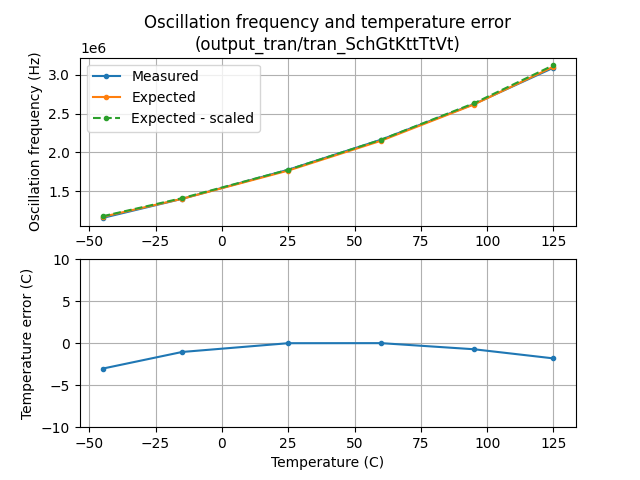
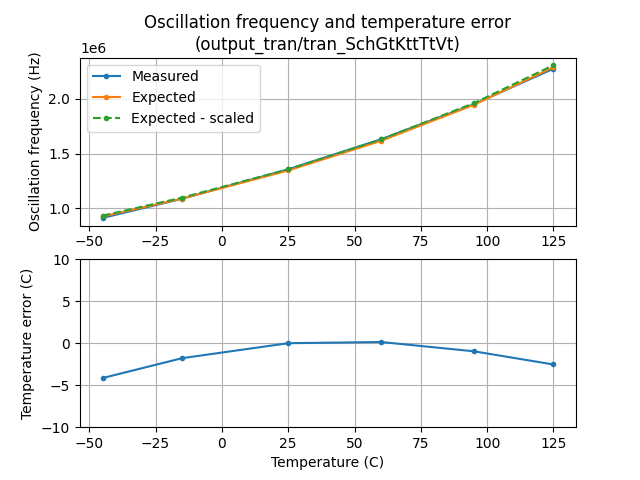
Oscillator: use custom NAND2
Same results as v2??

diff --git a/sim/LELO_GR04_OSC/results/tran_Sch_typical.html b/sim/LELO_GR04_OSC/results/tran_Sch_typical.html
@@ -61,158 +61,158 @@ table tfoot .links a{
 <body>
     <style type="text/css">
 </style>
-<table id="T_3011d">
+<table id="T_08e75">
   <thead>
     <tr>
       <th class="blank level0" >&nbsp;</th>
-      <th id="T_3011d_level0_col0" class="col_heading level0 col0" >idd_-45</th>
-      <th id="T_3011d_level0_col1" class="col_heading level0 col1" >idd_125</th>
-      <th id="T_3011d_level0_col2" class="col_heading level0 col2" >iddq_-45</th>
-      <th id="T_3011d_level0_col3" class="col_heading level0 col3" >iddq_125</th>
-      <th id="T_3011d_level0_col4" class="col_heading level0 col4" >fosc_-45</th>
-      <th id="T_3011d_level0_col5" class="col_heading level0 col5" >fosc_25</th>
-      <th id="T_3011d_level0_col6" class="col_heading level0 col6" >fosc_125</th>
-      <th id="T_3011d_level0_col7" class="col_heading level0 col7" >t_err_max</th>
-      <th id="T_3011d_level0_col8" class="col_heading level0 col8" >t_err_min</th>
+      <th id="T_08e75_level0_col0" class="col_heading level0 col0" >idd_-45</th>
+      <th id="T_08e75_level0_col1" class="col_heading level0 col1" >idd_125</th>
+      <th id="T_08e75_level0_col2" class="col_heading level0 col2" >iddq_-45</th>
+      <th id="T_08e75_level0_col3" class="col_heading level0 col3" >iddq_125</th>
+      <th id="T_08e75_level0_col4" class="col_heading level0 col4" >fosc_-45</th>
+      <th id="T_08e75_level0_col5" class="col_heading level0 col5" >fosc_25</th>
+      <th id="T_08e75_level0_col6" class="col_heading level0 col6" >fosc_125</th>
+      <th id="T_08e75_level0_col7" class="col_heading level0 col7" >t_err_max</th>
+      <th id="T_08e75_level0_col8" class="col_heading level0 col8" >t_err_min</th>
     </tr>
   </thead>
   <tbody>
     <tr>
-      <th id="T_3011d_level0_row0" class="row_heading level0 row0" >count</th>
-      <td id="T_3011d_row0_col0" class="data row0 col0" >1.000 uA</td>
-      <td id="T_3011d_row0_col1" class="data row0 col1" >1.000 uA</td>
-      <td id="T_3011d_row0_col2" class="data row0 col2" >1.000 nA</td>
-      <td id="T_3011d_row0_col3" class="data row0 col3" >1.000 nA</td>
-      <td id="T_3011d_row0_col4" class="data row0 col4" >1.000 MHz</td>
-      <td id="T_3011d_row0_col5" class="data row0 col5" >1.000 MHz</td>
-      <td id="T_3011d_row0_col6" class="data row0 col6" >1.000 MHz</td>
-      <td id="T_3011d_row0_col7" class="data row0 col7" >1.00 C</td>
-      <td id="T_3011d_row0_col8" class="data row0 col8" >1.00 C</td>
+      <th id="T_08e75_level0_row0" class="row_heading level0 row0" >count</th>
+      <td id="T_08e75_row0_col0" class="data row0 col0" >1.000 uA</td>
+      <td id="T_08e75_row0_col1" class="data row0 col1" >1.000 uA</td>
+      <td id="T_08e75_row0_col2" class="data row0 col2" >1.000 nA</td>
+      <td id="T_08e75_row0_col3" class="data row0 col3" >1.000 nA</td>
+      <td id="T_08e75_row0_col4" class="data row0 col4" >1.000 MHz</td>
+      <td id="T_08e75_row0_col5" class="data row0 col5" >1.000 MHz</td>
+      <td id="T_08e75_row0_col6" class="data row0 col6" >1.000 MHz</td>
+      <td id="T_08e75_row0_col7" class="data row0 col7" >1.00 C</td>
+      <td id="T_08e75_row0_col8" class="data row0 col8" >1.00 C</td>
     </tr>
     <tr>
-      <th id="T_3011d_level0_row1" class="row_heading level0 row1" >mean</th>
-      <td id="T_3011d_row1_col0" class="data row1 col0" >11.206 uA</td>
-      <td id="T_3011d_row1_col1" class="data row1 col1" >32.826 uA</td>
-      <td id="T_3011d_row1_col2" class="data row1 col2" >0.653 nA</td>
-      <td id="T_3011d_row1_col3" class="data row1 col3" >111.091 nA</td>
-      <td id="T_3011d_row1_col4" class="data row1 col4" >1.153 MHz</td>
-      <td id="T_3011d_row1_col5" class="data row1 col5" >1.776 MHz</td>
-      <td id="T_3011d_row1_col6" class="data row1 col6" >3.092 MHz</td>
-      <td id="T_3011d_row1_col7" class="data row1 col7" >0.01 C</td>
-      <td id="T_3011d_row1_col8" class="data row1 col8" >-3.03 C</td>
+      <th id="T_08e75_level0_row1" class="row_heading level0 row1" >mean</th>
+      <td id="T_08e75_row1_col0" class="data row1 col0" >10.082 uA</td>
+      <td id="T_08e75_row1_col1" class="data row1 col1" >29.993 uA</td>
+      <td id="T_08e75_row1_col2" class="data row1 col2" >1.629 nA</td>
+      <td id="T_08e75_row1_col3" class="data row1 col3" >8.892 nA</td>
+      <td id="T_08e75_row1_col4" class="data row1 col4" >0.913 MHz</td>
+      <td id="T_08e75_row1_col5" class="data row1 col5" >1.357 MHz</td>
+      <td id="T_08e75_row1_col6" class="data row1 col6" >2.274 MHz</td>
+      <td id="T_08e75_row1_col7" class="data row1 col7" >0.14 C</td>
+      <td id="T_08e75_row1_col8" class="data row1 col8" >-4.15 C</td>
     </tr>
     <tr>
-      <th id="T_3011d_level0_row2" class="row_heading level0 row2" >std</th>
-      <td id="T_3011d_row2_col0" class="data row2 col0" >nan uA</td>
-      <td id="T_3011d_row2_col1" class="data row2 col1" >nan uA</td>
-      <td id="T_3011d_row2_col2" class="data row2 col2" >nan nA</td>
-      <td id="T_3011d_row2_col3" class="data row2 col3" >nan nA</td>
-      <td id="T_3011d_row2_col4" class="data row2 col4" >nan MHz</td>
-      <td id="T_3011d_row2_col5" class="data row2 col5" >nan MHz</td>
-      <td id="T_3011d_row2_col6" class="data row2 col6" >nan MHz</td>
-      <td id="T_3011d_row2_col7" class="data row2 col7" >nan C</td>
-      <td id="T_3011d_row2_col8" class="data row2 col8" >nan C</td>
+      <th id="T_08e75_level0_row2" class="row_heading level0 row2" >std</th>
+      <td id="T_08e75_row2_col0" class="data row2 col0" >nan uA</td>
+      <td id="T_08e75_row2_col1" class="data row2 col1" >nan uA</td>
+      <td id="T_08e75_row2_col2" class="data row2 col2" >nan nA</td>
+      <td id="T_08e75_row2_col3" class="data row2 col3" >nan nA</td>
+      <td id="T_08e75_row2_col4" class="data row2 col4" >nan MHz</td>
+      <td id="T_08e75_row2_col5" class="data row2 col5" >nan MHz</td>
+      <td id="T_08e75_row2_col6" class="data row2 col6" >nan MHz</td>
+      <td id="T_08e75_row2_col7" class="data row2 col7" >nan C</td>
+      <td id="T_08e75_row2_col8" class="data row2 col8" >nan C</td>
     </tr>
     <tr>
-      <th id="T_3011d_level0_row3" class="row_heading level0 row3" >min</th>
-      <td id="T_3011d_row3_col0" class="data row3 col0" >11.206 uA</td>
-      <td id="T_3011d_row3_col1" class="data row3 col1" >32.826 uA</td>
-      <td id="T_3011d_row3_col2" class="data row3 col2" >0.653 nA</td>
-      <td id="T_3011d_row3_col3" class="data row3 col3" >111.091 nA</td>
-      <td id="T_3011d_row3_col4" class="data row3 col4" >1.153 MHz</td>
-      <td id="T_3011d_row3_col5" class="data row3 col5" >1.776 MHz</td>
-      <td id="T_3011d_row3_col6" class="data row3 col6" >3.092 MHz</td>
-      <td id="T_3011d_row3_col7" class="data row3 col7" >0.01 C</td>
-      <td id="T_3011d_row3_col8" class="data row3 col8" >-3.03 C</td>
+      <th id="T_08e75_level0_row3" class="row_heading level0 row3" >min</th>
+      <td id="T_08e75_row3_col0" class="data row3 col0" >10.082 uA</td>
+      <td id="T_08e75_row3_col1" class="data row3 col1" >29.993 uA</td>
+      <td id="T_08e75_row3_col2" class="data row3 col2" >1.629 nA</td>
+      <td id="T_08e75_row3_col3" class="data row3 col3" >8.892 nA</td>
+      <td id="T_08e75_row3_col4" class="data row3 col4" >0.913 MHz</td>
+      <td id="T_08e75_row3_col5" class="data row3 col5" >1.357 MHz</td>
+      <td id="T_08e75_row3_col6" class="data row3 col6" >2.274 MHz</td>
+      <td id="T_08e75_row3_col7" class="data row3 col7" >0.14 C</td>
+      <td id="T_08e75_row3_col8" class="data row3 col8" >-4.15 C</td>
     </tr>
     <tr>
-      <th id="T_3011d_level0_row4" class="row_heading level0 row4" >25%</th>
-      <td id="T_3011d_row4_col0" class="data row4 col0" >11.206 uA</td>
-      <td id="T_3011d_row4_col1" class="data row4 col1" >32.826 uA</td>
-      <td id="T_3011d_row4_col2" class="data row4 col2" >0.653 nA</td>
-      <td id="T_3011d_row4_col3" class="data row4 col3" >111.091 nA</td>
-      <td id="T_3011d_row4_col4" class="data row4 col4" >1.153 MHz</td>
-      <td id="T_3011d_row4_col5" class="data row4 col5" >1.776 MHz</td>
-      <td id="T_3011d_row4_col6" class="data row4 col6" >3.092 MHz</td>
-      <td id="T_3011d_row4_col7" class="data row4 col7" >0.01 C</td>
-      <td id="T_3011d_row4_col8" class="data row4 col8" >-3.03 C</td>
+      <th id="T_08e75_level0_row4" class="row_heading level0 row4" >25%</th>
+      <td id="T_08e75_row4_col0" class="data row4 col0" >10.082 uA</td>
+      <td id="T_08e75_row4_col1" class="data row4 col1" >29.993 uA</td>
+      <td id="T_08e75_row4_col2" class="data row4 col2" >1.629 nA</td>
+      <td id="T_08e75_row4_col3" class="data row4 col3" >8.892 nA</td>
+      <td id="T_08e75_row4_col4" class="data row4 col4" >0.913 MHz</td>
+      <td id="T_08e75_row4_col5" class="data row4 col5" >1.357 MHz</td>
+      <td id="T_08e75_row4_col6" class="data row4 col6" >2.274 MHz</td>
+      <td id="T_08e75_row4_col7" class="data row4 col7" >0.14 C</td>
+      <td id="T_08e75_row4_col8" class="data row4 col8" >-4.15 C</td>
     </tr>
     <tr>
-      <th id="T_3011d_level0_row5" class="row_heading level0 row5" >50%</th>
-      <td id="T_3011d_row5_col0" class="data row5 col0" >11.206 uA</td>
-      <td id="T_3011d_row5_col1" class="data row5 col1" >32.826 uA</td>
-      <td id="T_3011d_row5_col2" class="data row5 col2" >0.653 nA</td>
-      <td id="T_3011d_row5_col3" class="data row5 col3" >111.091 nA</td>
-      <td id="T_3011d_row5_col4" class="data row5 col4" >1.153 MHz</td>
-      <td id="T_3011d_row5_col5" class="data row5 col5" >1.776 MHz</td>
-      <td id="T_3011d_row5_col6" class="data row5 col6" >3.092 MHz</td>
-      <td id="T_3011d_row5_col7" class="data row5 col7" >0.01 C</td>
-      <td id="T_3011d_row5_col8" class="data row5 col8" >-3.03 C</td>
+      <th id="T_08e75_level0_row5" class="row_heading level0 row5" >50%</th>
+      <td id="T_08e75_row5_col0" class="data row5 col0" >10.082 uA</td>
+      <td id="T_08e75_row5_col1" class="data row5 col1" >29.993 uA</td>
+      <td id="T_08e75_row5_col2" class="data row5 col2" >1.629 nA</td>
+      <td id="T_08e75_row5_col3" class="data row5 col3" >8.892 nA</td>
+      <td id="T_08e75_row5_col4" class="data row5 col4" >0.913 MHz</td>
+      <td id="T_08e75_row5_col5" class="data row5 col5" >1.357 MHz</td>
+      <td id="T_08e75_row5_col6" class="data row5 col6" >2.274 MHz</td>
+      <td id="T_08e75_row5_col7" class="data row5 col7" >0.14 C</td>
+      <td id="T_08e75_row5_col8" class="data row5 col8" >-4.15 C</td>
     </tr>
     <tr>
-      <th id="T_3011d_level0_row6" class="row_heading level0 row6" >75%</th>
-      <td id="T_3011d_row6_col0" class="data row6 col0" >11.206 uA</td>
-      <td id="T_3011d_row6_col1" class="data row6 col1" >32.826 uA</td>
-      <td id="T_3011d_row6_col2" class="data row6 col2" >0.653 nA</td>
-      <td id="T_3011d_row6_col3" class="data row6 col3" >111.091 nA</td>
-      <td id="T_3011d_row6_col4" class="data row6 col4" >1.153 MHz</td>
-      <td id="T_3011d_row6_col5" class="data row6 col5" >1.776 MHz</td>
-      <td id="T_3011d_row6_col6" class="data row6 col6" >3.092 MHz</td>
-      <td id="T_3011d_row6_col7" class="data row6 col7" >0.01 C</td>
-      <td id="T_3011d_row6_col8" class="data row6 col8" >-3.03 C</td>
+      <th id="T_08e75_level0_row6" class="row_heading level0 row6" >75%</th>
+      <td id="T_08e75_row6_col0" class="data row6 col0" >10.082 uA</td>
+      <td id="T_08e75_row6_col1" class="data row6 col1" >29.993 uA</td>
+      <td id="T_08e75_row6_col2" class="data row6 col2" >1.629 nA</td>
+      <td id="T_08e75_row6_col3" class="data row6 col3" >8.892 nA</td>
+      <td id="T_08e75_row6_col4" class="data row6 col4" >0.913 MHz</td>
+      <td id="T_08e75_row6_col5" class="data row6 col5" >1.357 MHz</td>
+      <td id="T_08e75_row6_col6" class="data row6 col6" >2.274 MHz</td>
+      <td id="T_08e75_row6_col7" class="data row6 col7" >0.14 C</td>
+      <td id="T_08e75_row6_col8" class="data row6 col8" >-4.15 C</td>
     </tr>
     <tr>
-      <th id="T_3011d_level0_row7" class="row_heading level0 row7" >max</th>
-      <td id="T_3011d_row7_col0" class="data row7 col0" >11.206 uA</td>
-      <td id="T_3011d_row7_col1" class="data row7 col1" >32.826 uA</td>
-      <td id="T_3011d_row7_col2" class="data row7 col2" >0.653 nA</td>
-      <td id="T_3011d_row7_col3" class="data row7 col3" >111.091 nA</td>
-      <td id="T_3011d_row7_col4" class="data row7 col4" >1.153 MHz</td>
-      <td id="T_3011d_row7_col5" class="data row7 col5" >1.776 MHz</td>
-      <td id="T_3011d_row7_col6" class="data row7 col6" >3.092 MHz</td>
-      <td id="T_3011d_row7_col7" class="data row7 col7" >0.01 C</td>
-      <td id="T_3011d_row7_col8" class="data row7 col8" >-3.03 C</td>
+      <th id="T_08e75_level0_row7" class="row_heading level0 row7" >max</th>
+      <td id="T_08e75_row7_col0" class="data row7 col0" >10.082 uA</td>
+      <td id="T_08e75_row7_col1" class="data row7 col1" >29.993 uA</td>
+      <td id="T_08e75_row7_col2" class="data row7 col2" >1.629 nA</td>
+      <td id="T_08e75_row7_col3" class="data row7 col3" >8.892 nA</td>
+      <td id="T_08e75_row7_col4" class="data row7 col4" >0.913 MHz</td>
+      <td id="T_08e75_row7_col5" class="data row7 col5" >1.357 MHz</td>
+      <td id="T_08e75_row7_col6" class="data row7 col6" >2.274 MHz</td>
+      <td id="T_08e75_row7_col7" class="data row7 col7" >0.14 C</td>
+      <td id="T_08e75_row7_col8" class="data row7 col8" >-4.15 C</td>
     </tr>
   </tbody>
 </table>
 <style type="text/css">
-#T_14a42_row0_col3, #T_14a42_row0_col4, #T_14a42_row0_col5, #T_14a42_row0_col6 {
+#T_3ff4a_row0_col4, #T_3ff4a_row0_col5, #T_3ff4a_row0_col6 {
   background-color: lightcoral;
 }
 </style>
-<table id="T_14a42">
+<table id="T_3ff4a">
   <thead>
     <tr>
-      <th id="T_14a42_level0_col0" class="col_heading level0 col0" >idd_-45</th>
-      <th id="T_14a42_level0_col1" class="col_heading level0 col1" >idd_125</th>
-      <th id="T_14a42_level0_col2" class="col_heading level0 col2" >iddq_-45</th>
-      <th id="T_14a42_level0_col3" class="col_heading level0 col3" >iddq_125</th>
-      <th id="T_14a42_level0_col4" class="col_heading level0 col4" >fosc_-45</th>
-      <th id="T_14a42_level0_col5" class="col_heading level0 col5" >fosc_25</th>
-      <th id="T_14a42_level0_col6" class="col_heading level0 col6" >fosc_125</th>
-      <th id="T_14a42_level0_col7" class="col_heading level0 col7" >t_err_max</th>
-      <th id="T_14a42_level0_col8" class="col_heading level0 col8" >t_err_min</th>
-      <th id="T_14a42_level0_col9" class="col_heading level0 col9" >name</th>
-      <th id="T_14a42_level0_col10" class="col_heading level0 col10" >type</th>
-      <th id="T_14a42_level0_col11" class="col_heading level0 col11" >time</th>
-      <th id="T_14a42_level0_col12" class="col_heading level0 col12" >OK</th>
+      <th id="T_3ff4a_level0_col0" class="col_heading level0 col0" >idd_-45</th>
+      <th id="T_3ff4a_level0_col1" class="col_heading level0 col1" >idd_125</th>
+      <th id="T_3ff4a_level0_col2" class="col_heading level0 col2" >iddq_-45</th>
+      <th id="T_3ff4a_level0_col3" class="col_heading level0 col3" >iddq_125</th>
+      <th id="T_3ff4a_level0_col4" class="col_heading level0 col4" >fosc_-45</th>
+      <th id="T_3ff4a_level0_col5" class="col_heading level0 col5" >fosc_25</th>
+      <th id="T_3ff4a_level0_col6" class="col_heading level0 col6" >fosc_125</th>
+      <th id="T_3ff4a_level0_col7" class="col_heading level0 col7" >t_err_max</th>
+      <th id="T_3ff4a_level0_col8" class="col_heading level0 col8" >t_err_min</th>
+      <th id="T_3ff4a_level0_col9" class="col_heading level0 col9" >name</th>
+      <th id="T_3ff4a_level0_col10" class="col_heading level0 col10" >type</th>
+      <th id="T_3ff4a_level0_col11" class="col_heading level0 col11" >time</th>
+      <th id="T_3ff4a_level0_col12" class="col_heading level0 col12" >OK</th>
     </tr>
   </thead>
   <tbody>
     <tr>
-      <td id="T_14a42_row0_col0" class="data row0 col0" >11.206 uA</td>
-      <td id="T_14a42_row0_col1" class="data row0 col1" >32.826 uA</td>
-      <td id="T_14a42_row0_col2" class="data row0 col2" >0.653 nA</td>
-      <td id="T_14a42_row0_col3" class="data row0 col3" >111.091 nA</td>
-      <td id="T_14a42_row0_col4" class="data row0 col4" >1.153 MHz</td>
-      <td id="T_14a42_row0_col5" class="data row0 col5" >1.776 MHz</td>
-      <td id="T_14a42_row0_col6" class="data row0 col6" >3.092 MHz</td>
-      <td id="T_14a42_row0_col7" class="data row0 col7" >0.01 C</td>
-      <td id="T_14a42_row0_col8" class="data row0 col8" >-3.03 C</td>
-      <td id="T_14a42_row0_col9" class="data row0 col9" >tran_SchGtKttTtVt</td>
-      <td id="T_14a42_row0_col10" class="data row0 col10" >Sch</td>
-      <td id="T_14a42_row0_col11" class="data row0 col11" >Sat Mar 21 20:20:29 2026</td>
-      <td id="T_14a42_row0_col12" class="data row0 col12" >False</td>
+      <td id="T_3ff4a_row0_col0" class="data row0 col0" >10.082 uA</td>
+      <td id="T_3ff4a_row0_col1" class="data row0 col1" >29.993 uA</td>
+      <td id="T_3ff4a_row0_col2" class="data row0 col2" >1.629 nA</td>
+      <td id="T_3ff4a_row0_col3" class="data row0 col3" >8.892 nA</td>
+      <td id="T_3ff4a_row0_col4" class="data row0 col4" >0.913 MHz</td>
+      <td id="T_3ff4a_row0_col5" class="data row0 col5" >1.357 MHz</td>
+      <td id="T_3ff4a_row0_col6" class="data row0 col6" >2.274 MHz</td>
+      <td id="T_3ff4a_row0_col7" class="data row0 col7" >0.14 C</td>
+      <td id="T_3ff4a_row0_col8" class="data row0 col8" >-4.15 C</td>
+      <td id="T_3ff4a_row0_col9" class="data row0 col9" >tran_SchGtKttTtVt</td>
+      <td id="T_3ff4a_row0_col10" class="data row0 col10" >Sch</td>
+      <td id="T_3ff4a_row0_col11" class="data row0 col11" >Fri Apr 17 14:42:59 2026</td>
+      <td id="T_3ff4a_row0_col12" class="data row0 col12" >False</td>
     </tr>
   </tbody>
 </table>

diff --git a/sim/LELO_GR04_OSC/results/tran_Sch_typical.md b/sim/LELO_GR04_OSC/results/tran_Sch_typical.md
@@ -5,20 +5,20 @@ For details see <a href='tran_Sch_typical.html'>tran_Sch_typical.html</a>
 |**Name**|**Parameter**|**View**|**Min** | **Typ** | **Max**|
 |:---|:---|:---:|:---:|:---:|:---:|
 |Active current|idd\_-45 | Spec | 10.000 uA | 40.000 uA | 70.000 uA |
-| | | ('Sch',)|11.206 uA | 11.206 uA | 11.206 uA |
+| | | ('Sch',)|10.082 uA | 10.082 uA | 10.082 uA |
 |Active current|idd\_125 | Spec | 10.000 uA | 40.000 uA | 70.000 uA |
-| | | ('Sch',)|32.826 uA | 32.826 uA | 32.826 uA |
+| | | ('Sch',)|29.993 uA | 29.993 uA | 29.993 uA |
 |Leakage current|iddq\_-45 | Spec | 0.000 nA | 50.000 nA | 100.000 nA |
-| | | ('Sch',)|0.653 nA | 0.653 nA | 0.653 nA |
+| | | ('Sch',)|1.629 nA | 1.629 nA | 1.629 nA |
 |Leakage current|iddq\_125 | Spec | 0.000 nA | 50.000 nA | 100.000 nA |
-| | | ('Sch',)|111.091 nA | 111.091 nA | 111.091 nA |
+| | | ('Sch',)|8.892 nA | 8.892 nA | 8.892 nA |
 |Oscillation frequency @ -45C|fosc\_-45 | Spec | 1.406 MHz | 1.875 MHz | 2.344 MHz |
-| | | ('Sch',)|1.153 MHz | 1.153 MHz | 1.153 MHz |
+| | | ('Sch',)|0.913 MHz | 0.913 MHz | 0.913 MHz |
 |Oscillation frequency @ 25C|fosc\_25 | Spec | 2.081 MHz | 2.775 MHz | 3.469 MHz |
-| | | ('Sch',)|1.776 MHz | 1.776 MHz | 1.776 MHz |
+| | | ('Sch',)|1.357 MHz | 1.357 MHz | 1.357 MHz |
 |Oscillation frequency @ 125C|fosc\_125 | Spec | 3.598 MHz | 4.797 MHz | 5.996 MHz |
-| | | ('Sch',)|3.092 MHz | 3.092 MHz | 3.092 MHz |
+| | | ('Sch',)|2.274 MHz | 2.274 MHz | 2.274 MHz |
 |Temperature error (calibrated @ 25C)|t\_err\_max | Spec | -10.00 C |  | 10.00 C |
-| | | ('Sch',)|0.01 C | 0.01 C | 0.01 C |
+| | | ('Sch',)|0.14 C | 0.14 C | 0.14 C |
 |Temperature error (calibrated @ 25C)|t\_err\_min | Spec | -10.00 C |  | 10.00 C |
-| | | ('Sch',)|-3.03 C | -3.03 C | -3.03 C |
+| | | ('Sch',)|-4.15 C | -4.15 C | -4.15 C |
